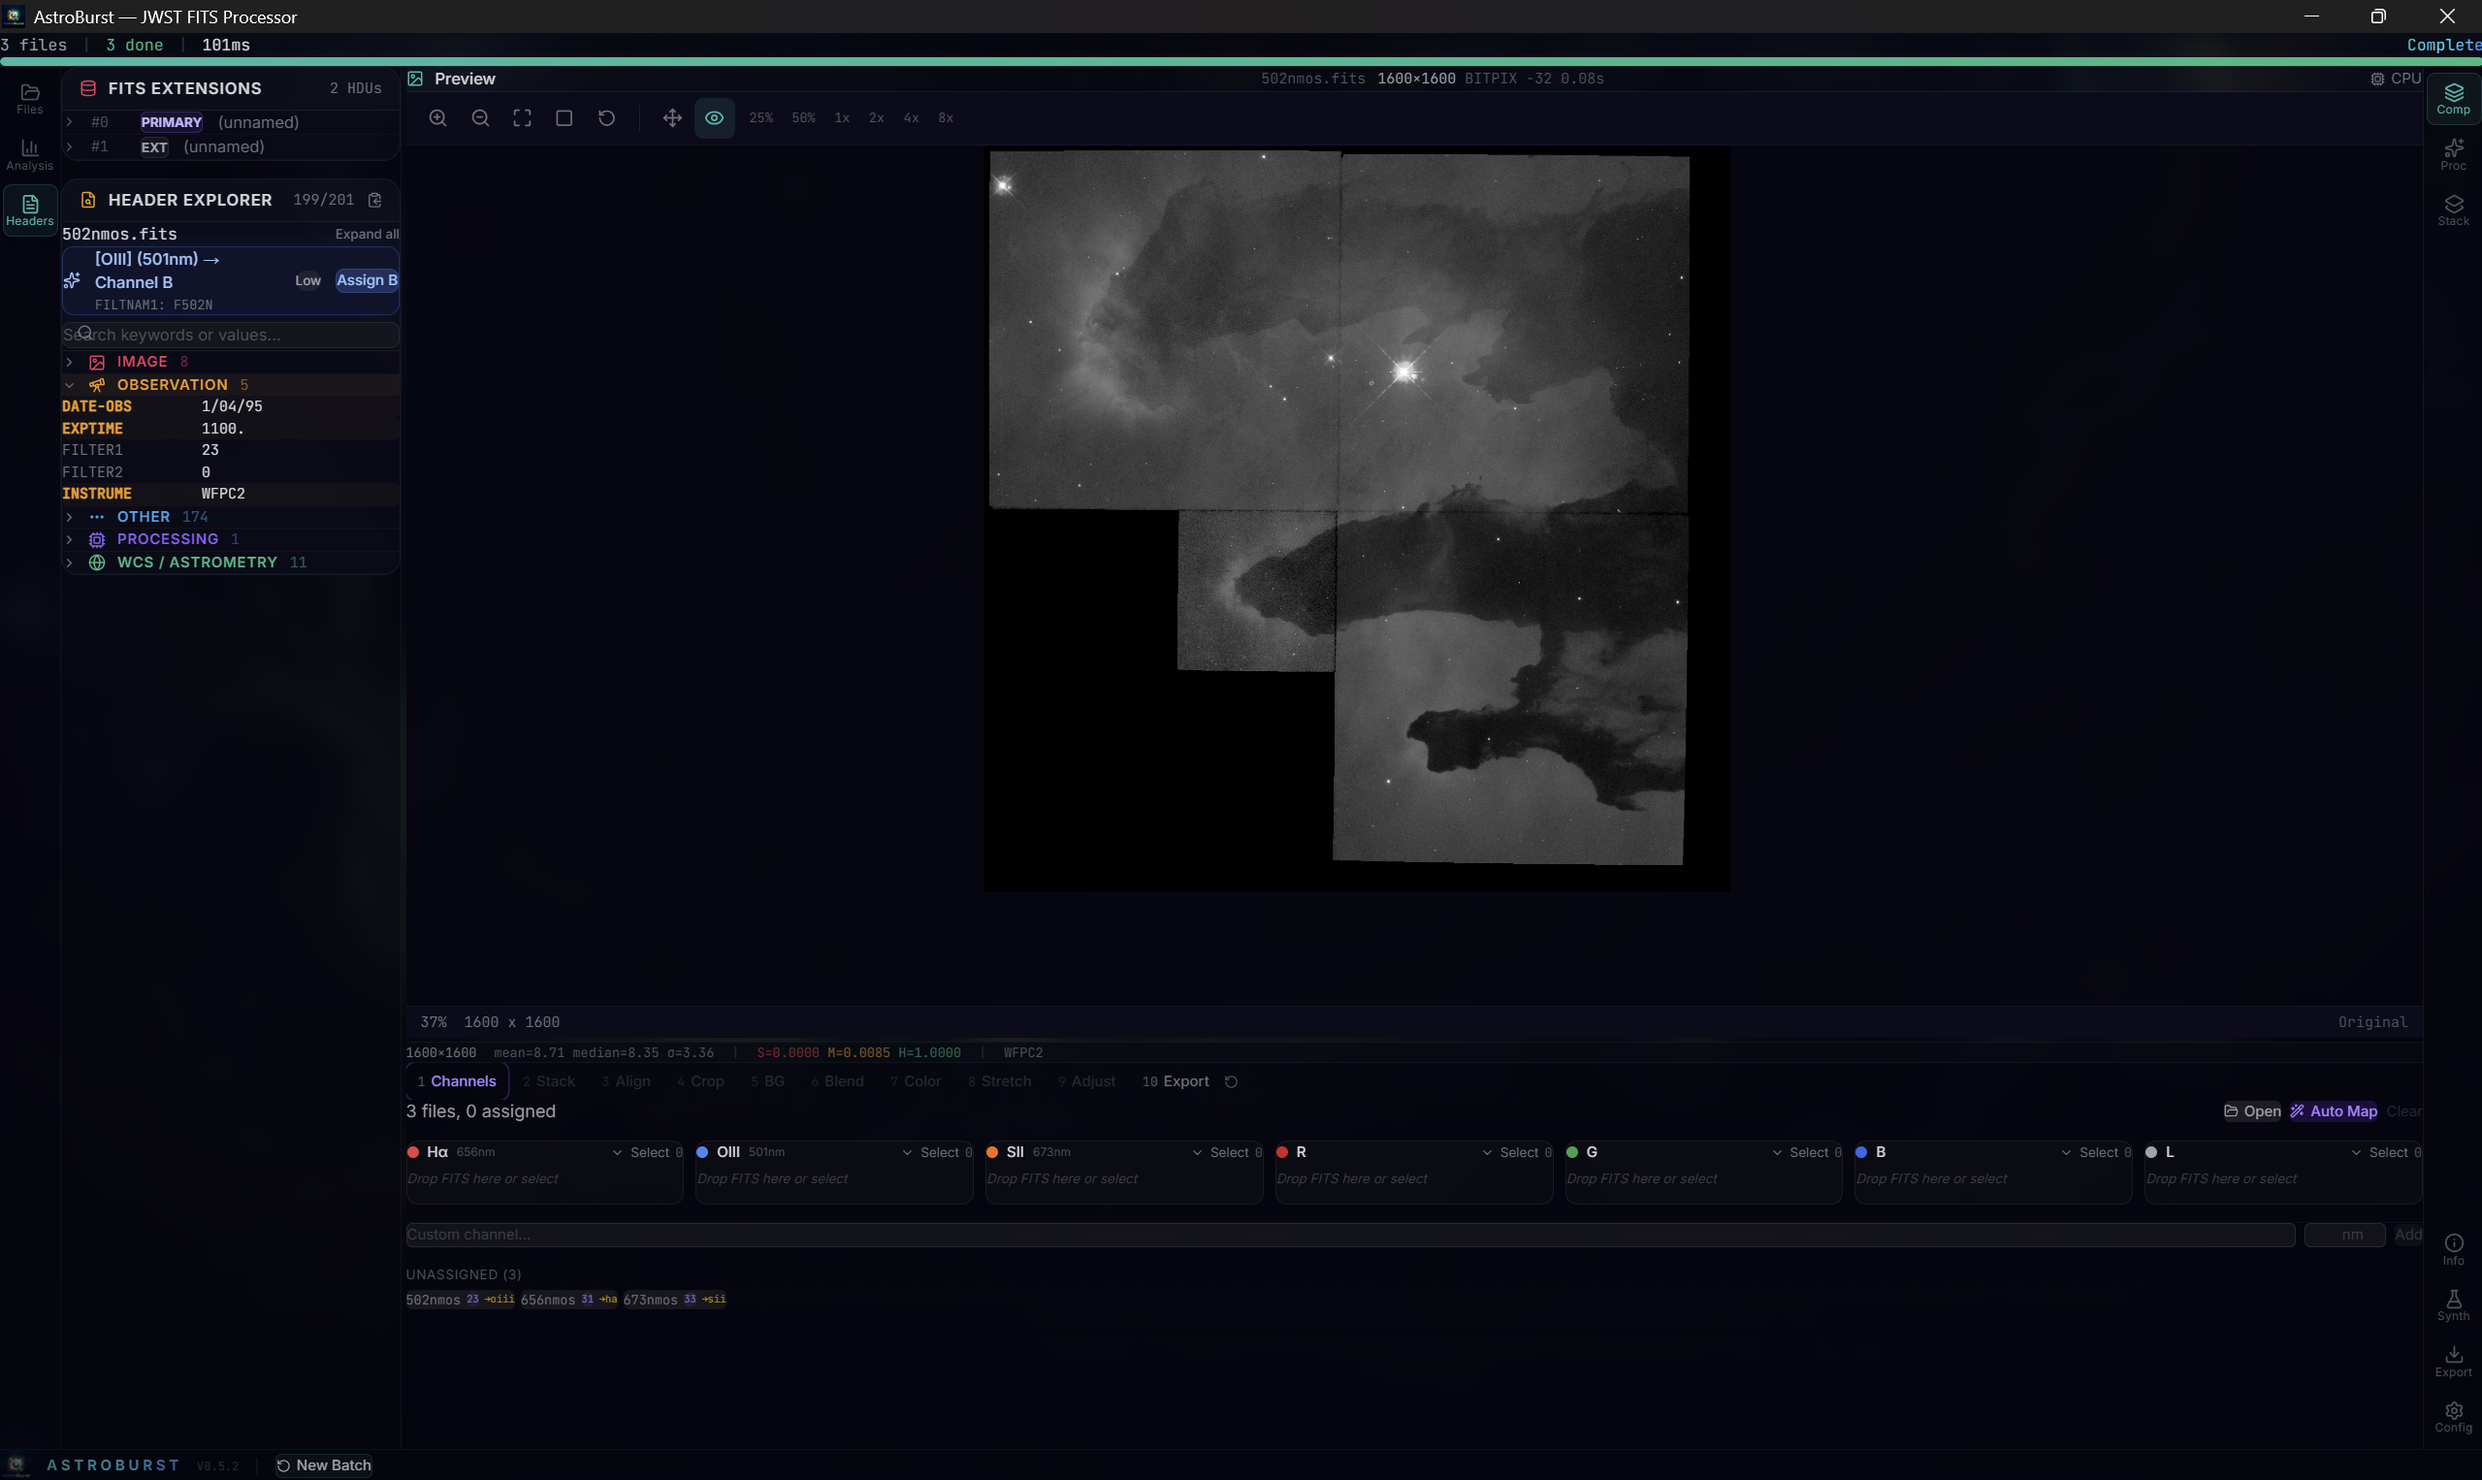
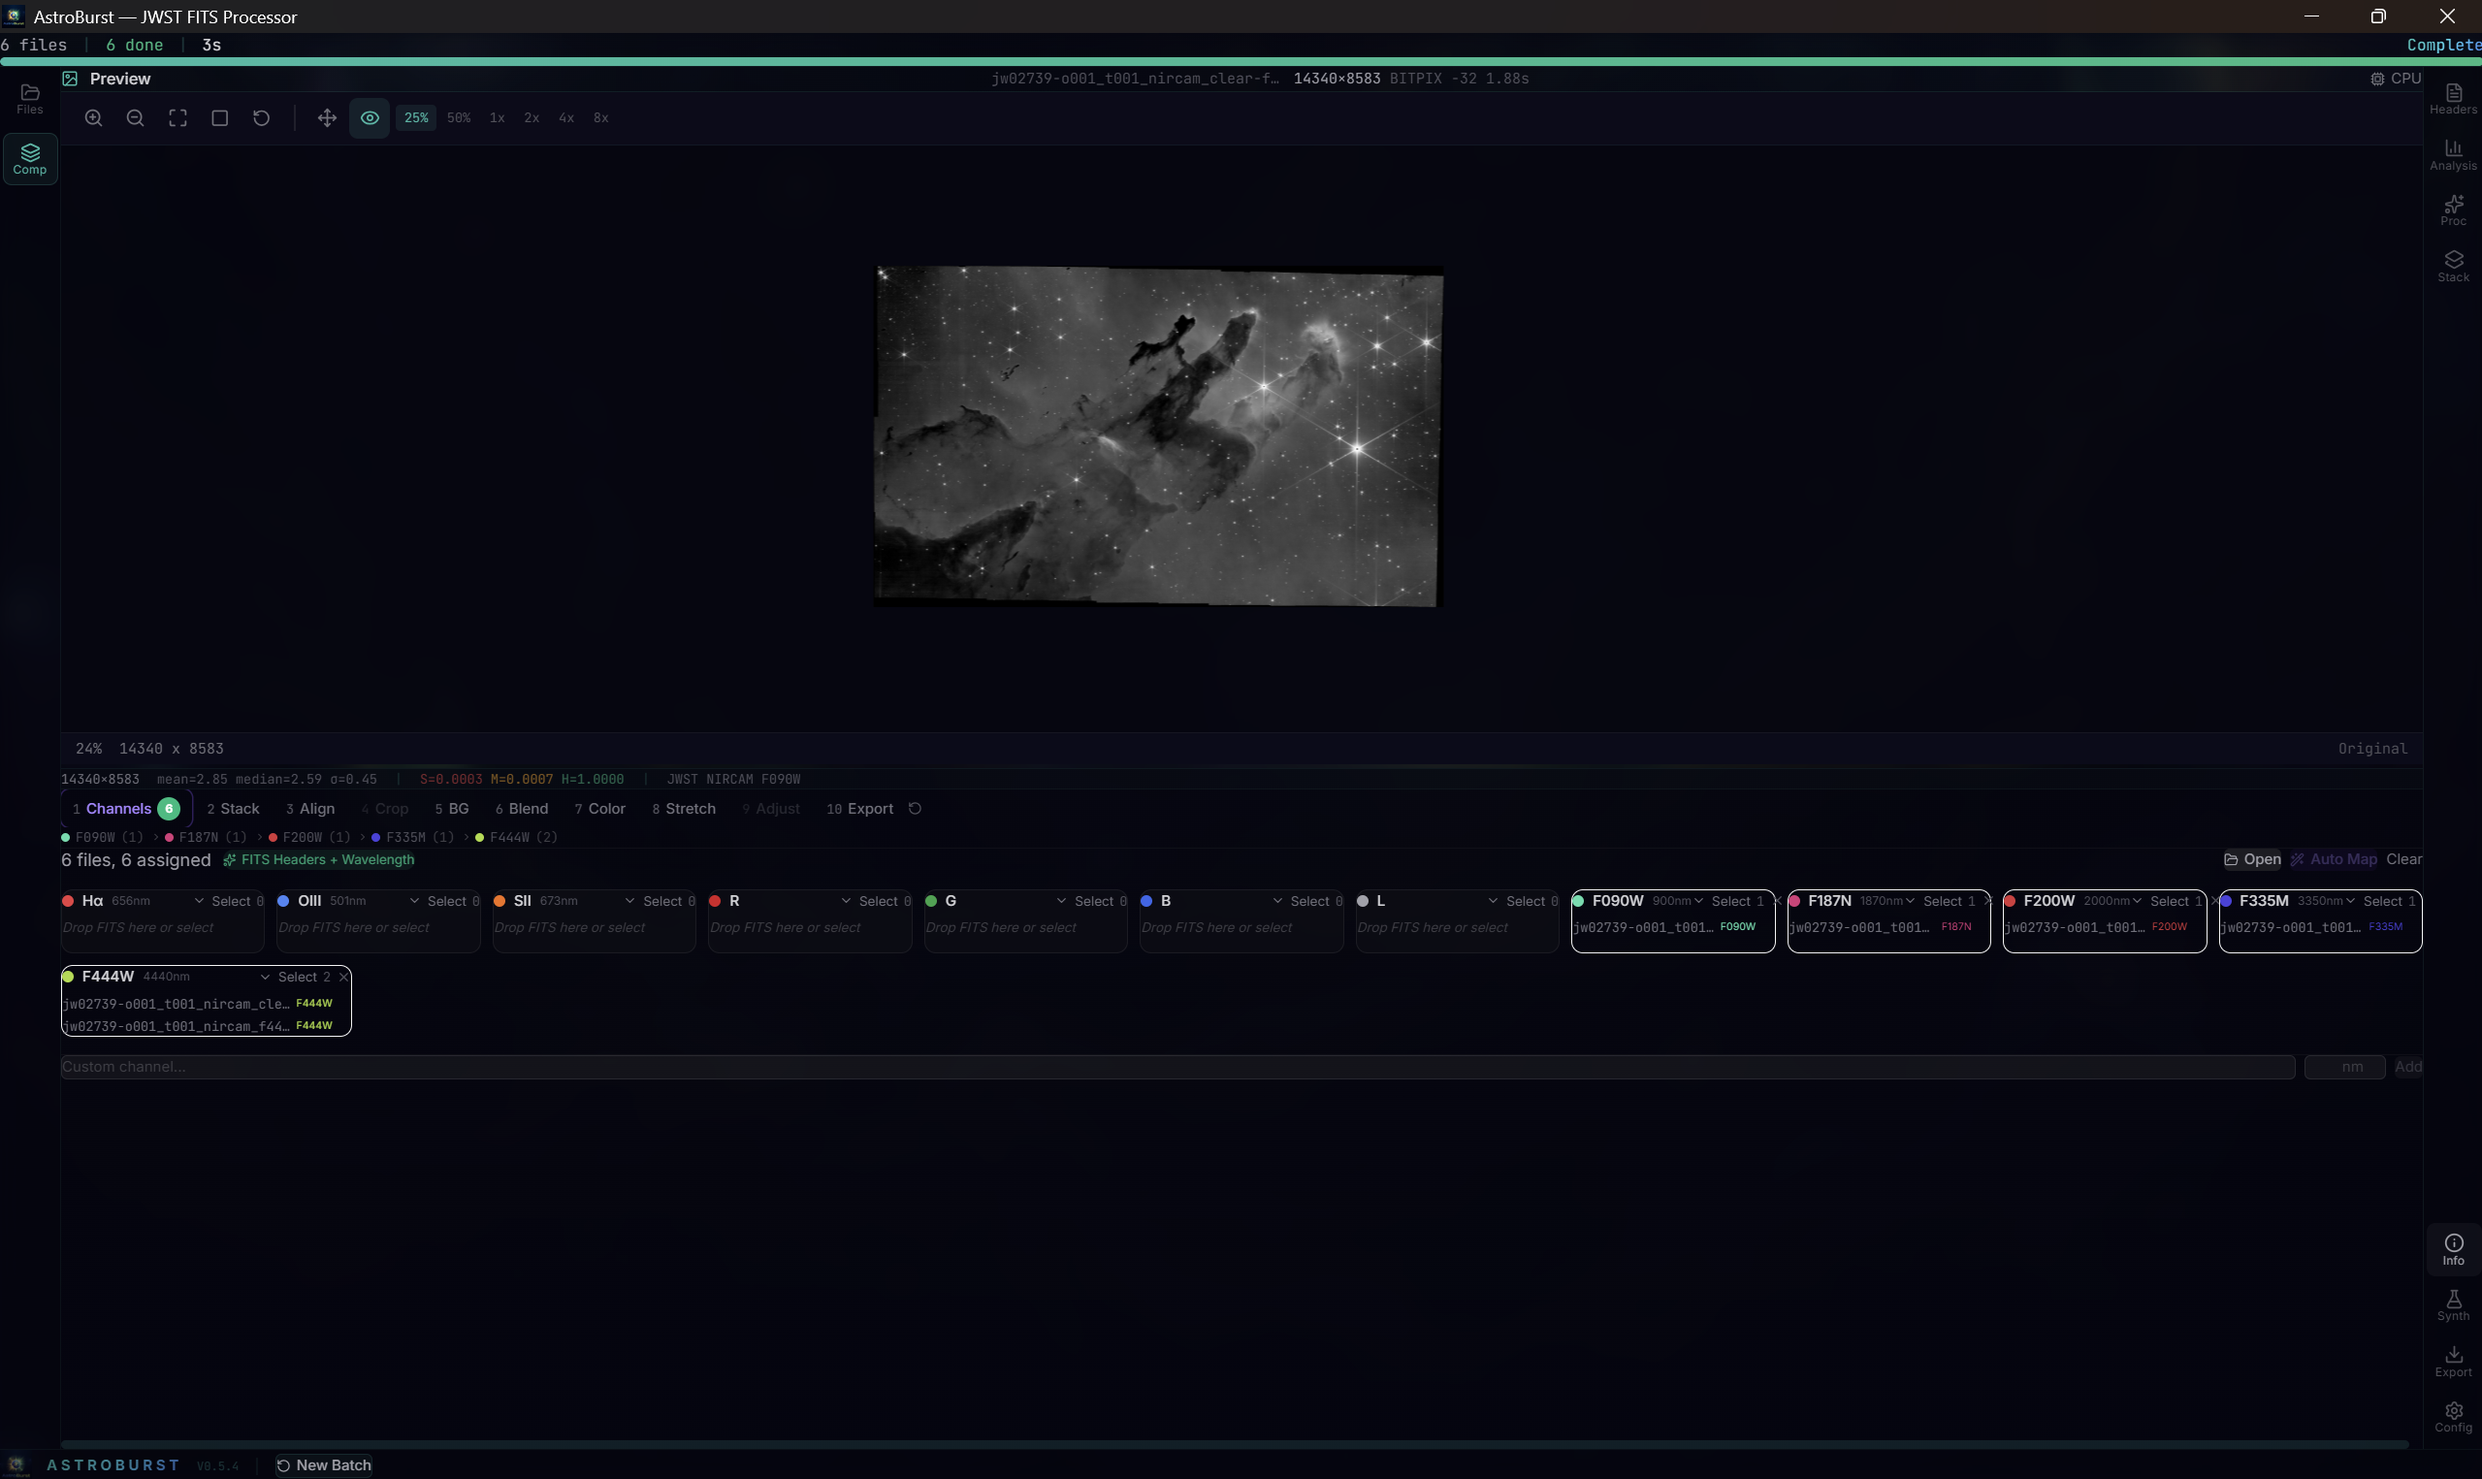
Update Readme

diff --git a/README.md b/README.md
@@ -36,6 +36,8 @@ AstroBurst is an open-source desktop app for processing astronomical images. Dro
 
 It's built on Rust for the heavy lifting, React for the interface, and WebGPU for real-time preview. The result is a tool that opens a 2 GB IFU datacube in 300 ms, processes 10 frames at 1.4 GB/s, and renders STF adjustments in 8 ms on GPU.
 
+> **What's new in v0.5.5**: **GPU RGB preview** — full-color composites now render on the GPU, not just mono. A new WebGPU pipeline uploads the three channels as separate `r32float` textures and runs **per-channel STF in the shader** (MTF identical to the CPU worker and Rust backend), with automatic fallback to the PNG composite when WebGPU is unavailable or the device is lost. **Live per-channel RGB STF**: a dedicated panel restretches each channel's shadow/midtone live on the GPU with no backend round-trip. **Header → wavelength channel mapping**: a canonical filter→wavelength table now drives a **dynamic Auto-Map** that gives each broadband filter its own λ-labelled channel (JWST NIRCam F090W–F444W → five distinct channels, grouped by nm), and a new **Auto (λ) blend** spreads any number of channels across R/G/B by wavelength — auto-applied to untouched broadband stacks without overriding palettes or manual weights. Plus a GPU/CPU preview audit: STF parity, full-image extrema for preview normalization, device-loss/uncaptured-error fallback, an oversized-texture guard, and a contrast-weighted hybrid downsample that preserves faint stars. The Compose tool moved to the left tool strip. 375 backend tests green. See the [changelog](CHANGELOG.md).
+>
 > **What's new in v0.5.4**: **Foroosh sub-pixel phase correlation** — FFT registration now uses a closed-form Dirichlet-peak estimator instead of a 3-point parabola, removing a systematic ~0.1 px peak-locking bias on every frame for visibly tighter stacked stars. **NaN-aware bicubic resampling** so a single blank/out-of-footprint pixel no longer poisons its 4×4 neighborhood or erodes stack borders pass after pass. New controls wired end-to-end: **Drizzle RGB** gains rejection thresholds (sigma low/high), **manual per-channel white balance**, and an **alignment-method selector** (phase correlation or star-based); the **subframe selector** exposes the four quality-scoring weights (FWHM / eccentricity / SNR / noise); and **plate solve** adds a scale-units selector (arcsec/px, arcmin/deg width) and an explicit downsample factor. Plus correctness fixes: calibration validates master-vs-light dimensions (no more panic or silent mis-calibration on mismatched masters), master flats normalize by the **median** (robust to gradients/dust), all-blank stacked pixels stay **NaN** instead of collapsing to 0 (so they no longer bias background and stretch), affine alignment **rejects reflections**, and the drizzle Lanczos kernel guards low-coverage division. 364 backend tests green. See the [changelog](CHANGELOG.md).
 >
 > **What's new in v0.5.2**: **GHS stretch** (Generalized Hyperbolic Stretch with D/b/SP/LP/HP controls), **OSC debayer** (RGGB/BGGR/GRBG/GBRG with XBAYROFF/YBAYROFF, bilinear or super-pixel), **interactive photometry** (click a star for centroid, net flux, instrumental magnitude, SNR, FWHM — with optional Gaia DR3 cross-match), **SPCC against real Gaia DR3** via VizieR cone search, **SIP distortion** support in WCS, a dedicated **Drizzle RGB** stacking tab, truly **linked STF** (preview == restretch == export, bit-exact), and labeled plate-solve annotation overlays. Plus a deep correctness audit: NaN-safe wavelet/deconvolution/calibration (stacked images with blank edges no longer break tools), per-kernel drizzle footprints (Gaussian/Lanczos3 now actually differ from Square), fixed 16-bit PNG export endianness, and dozens of math fixes across alignment, photometry and WCS. 347 backend tests green. See the [changelog](CHANGELOG.md).
@@ -47,12 +49,12 @@ It's built on Rust for the heavy lifting, React for the interface, and WebGPU fo
 <p align="center">
   <img src="docs/screenshots/01-rgb-composite.png" alt="HST Pillars of Creation narrowband composite preview" width="100%">
 </p>
-<p align="center"><em>Narrowband composite of the <strong>Pillars of Creation</strong> (Hα / OIII / SII → SHO) in the full-screen preview, straight out of the ComposeWizard — the mosaic edges left by channel registration are still visible and get trimmed by the Crop step. The panels below walk through that exact pipeline, in order, on this same dataset.</em></p>
+<p align="center"><em>Narrowband composite of the <strong>Pillars of Creation</strong> (Hα / OIII / SII → SHO) in the full-screen preview, straight out of the ComposeWizard — the mosaic edges left by channel registration are still visible and get trimmed by the Crop step. The panels below walk through that exact pipeline, step by step (across HST narrowband and JWST NIRCam data).</em></p>
 
 <p align="center">
   <img src="docs/screenshots/02-channels-mapping.png" alt="Header explorer with channel assignment" width="100%">
 </p>
-<p align="center"><em><strong>1 · Channels.</strong> The three narrowband frames (502 nm OIII, 656 nm Hα, 673 nm SII) assigned to channel bins — filters auto-detected from FITS headers (here WFPC2's <code>FILTNAM</code>), with the extension list and categorized keywords in the Header Explorer, per-bin file slots, and Auto Map. With one frame per channel, the optional <strong>2 · Stack</strong> step (sigma-clipped integration, subframe selector, drizzle) is skipped.</em></p>
+<p align="center"><em><strong>1 · Channels.</strong> Filters auto-detected from FITS headers and mapped to channel bins by wavelength — the new <strong>dynamic Auto-Map</strong> gives each broadband filter its own λ-labelled channel (here JWST NIRCam F090W–F444W → distinct channels, grouped by nm), backed by a canonical filter→wavelength table shared by the backend and UI. The Header Explorer lists extensions and categorized keywords, with per-bin file slots. With one frame per channel the optional <strong>2 · Stack</strong> step (sigma-clipped integration, subframe selector, drizzle) is skipped.</em></p>
 
 <p align="center">
   <img src="docs/screenshots/03-align.png" alt="Channel alignment" width="100%">
@@ -72,7 +74,7 @@ It's built on Rust for the heavy lifting, React for the interface, and WebGPU fo
 <p align="center">
   <img src="docs/screenshots/06-blend-composite.png" alt="Channel blending into the SHO composite" width="100%">
 </p>
-<p align="center"><em><strong>6 · Blend.</strong> The SHO palette (SII→R, Hα→G, OIII→B) mapped through a per-channel weight matrix — the Hα-dominated green you see here is exactly what the next step neutralizes. Presets: RGB, SHO, Hubble Legacy, HOO, Dynamic HOO, Foraxx.</em></p>
+<p align="center"><em><strong>6 · Blend.</strong> Channels mapped to R/G/B through a per-channel weight matrix, shown here as a node graph — the green cast you see is exactly what the next step neutralizes. Presets: RGB, SHO, HOO, Dynamic HOO, Foraxx, Hubble Legacy, plus the new <strong>Auto (λ)</strong>, which spreads any number of channels across R/G/B by wavelength and auto-applies to untouched broadband stacks without overriding a palette or manual weights.</em></p>
 
 <p align="center">
   <img src="docs/screenshots/07-color-balance-scnr.png" alt="Color balance and SCNR" width="100%">

diff --git a/CHANGELOG.md b/CHANGELOG.md
@@ -37,6 +37,34 @@ and this project adheres to [Semantic Versioning](https://semver.org/spec/v2.0.0
 ### Changed
 - ExportStep detects STF identity (`Math.abs(midtone - 0.5) > 1e-4`) before composite PNG export; sends `applyStfStretch: false` when identity, activating backend auto-stretch
 
+## [0.5.5] - 2026-06-26
+
+### Added
+- **WebGPU RGB preview**: GPU-only `GpuRgbRenderer` renders full RGB composites from three `r32float` textures with per-channel STF in the WGSL shader (MTF identical to the mono shader, CPU worker, and Rust backend). Routed through PreviewTab/PreviewPanel; falls back to the PNG composite when WebGPU is unavailable, no adapter is found, or the device is lost.
+- **Live per-channel RGB STF** (`RgbStfPanel`, Analysis tab): per-channel shadow/midtone restretch the GPU composite live with no backend round-trip; the mono STF slider skips its backend render while a GPU preview is active.
+- Backend command `get_raw_rgb_pixels_preview(path?, max_dim)`: linear 3-channel float preview with per-channel min/max, from a native RGB FITS or the composite cache (planar R|G|B with a 32-byte header). Shared `encode_channel_preview` factored out of the mono encoder (byte-identical).
+- **Canonical filter→wavelength table** (`FILTER_WAVELENGTHS_NM` + `filter_to_wavelength_nm` in `types/constants.rs`, mirrored by `utils/filterWavelengths.ts`): normalizes CLEAR / separators / dual filters, replacing the two duplicated JWST tables.
+- **Dynamic channel Auto-Map** (Compose ▸ Channels): each non-narrowband/non-RGB filter gets its own wavelength-labelled channel (e.g. NIRCam F090W–F444W → five distinct channels), grouped by nm.
+- **Auto (λ) blend**: spreads any number of channels across R/G/B by wavelength; auto-applies once for untouched broadband stacks, never overriding a palette or manual weights.
+
+### Changed
+- Compose tool moved from the right tool strip to the left strip.
+- Preview downsample replaced nearest-neighbor with a contrast-weighted hybrid (mean↔max) area kernel that preserves faint point sources while anti-aliasing the background.
+- `parseRawPixelBuffer` accepts an `ArrayBufferView`, validates length, and stays zero-copy in the normal case.
+- The GPU/CPU toggle surfaces the fallback reason (no WebGPU / no adapter / init failed / device lost / GPU error) via tooltip.
+
+### Fixed
+- **STF GPU/CPU parity**: the CPU fallback worker no longer hard-zeros `raw ≤ 1e-7` (was blacking out background-subtracted pixels the GPU shader maps to gray); epsilons aligned to 1e-8 so GPU and CPU render identically.
+- **Preview normalization**: `data_min`/`data_max` now describe the full image (shared `scan_extrema`) instead of the nearest-neighbor decimated subset, so the live preview matches the canonical PNG.
+- **File switch in GPU mode**: `loadRawPixels` gained a force flag so switching files no longer leaves stale previous-file pixels blocking the fetch.
+- **Device loss / uncaptured errors**: `GpuSingleton` exposes `onGpuLost` + an uncaptured-error handler; `GpuRenderer` drops the dead device's resources and falls back to the CPU worker instead of a permanently blank canvas.
+- **Texture-limit guard**: an oversized image degrades to the CPU worker instead of an unobserved validation error and a blank canvas.
+- **Uniforms**: reused scratch buffer + skip-when-unchanged guard (no per-frame allocation; cache invalidated on uniformBuffer recreation).
+- Fixed OIII / Hα / SII filter-regex false positives.
+
+### Removed
+- Orphaned ZNCC WebGPU shader (`zncc_align.wgsl`) and its CONTRIBUTING reference; the unreachable client-side downsample worker; unused imports.
+
 ## [0.4.6] - 2026-04-06
 
 ### Added
